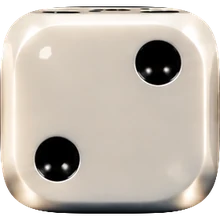
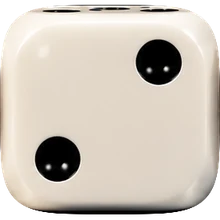
Yam's: new Classique dice artwork
Claude-Session: https://claude.ai/code/session_01H28i4nEd8tcnSnyPtjjJb7

diff --git a/yams.html b/yams.html
@@ -474,7 +474,7 @@ const SKINS = {
 };
 const SKIN_IDS = Object.keys(SKINS);
 // les dés « photo » : on précharge les 6 faces pour qu'elles s'affichent tout de suite
-SKIN_IDS.forEach(id => { if (SKINS[id].img) for (let v = 1; v <= 6; v++) { const im = new Image(); im.src = `img/dice/${SKINS[id].img}_${v}.webp?v=2`; } });
+SKIN_IDS.forEach(id => { if (SKINS[id].img) for (let v = 1; v <= 6; v++) { const im = new Image(); im.src = `img/dice/${SKINS[id].img}_${v}.webp?v=3`; } });
 // couleurs : face claire en haut, tranche plus sombre en dessous
 const shade = (hex, k) => { const n = parseInt(hex.slice(1), 16); const f = c => Math.max(0, Math.min(255, Math.round(c * k))); return '#' + [n >> 16 & 255, n >> 8 & 255, n & 255].map(f).map(v => v.toString(16).padStart(2, '0')).join(''); };
 const mix = (a, b, t) => { const A = parseInt(a.slice(1), 16), B = parseInt(b.slice(1), 16); return '#' + [16, 8, 0].map(sh => Math.round((A >> sh & 255) * (1 - t) + (B >> sh & 255) * t).toString(16).padStart(2, '0')).join(''); };
@@ -500,7 +500,7 @@ function pip(sk, x, y, big) {
 }
 function dieSVG(v, skinId) {
   const id = SKINS[skinId] ? skinId : 'classic', sk = SKINS[id];
-  if (sk.img) return `<svg viewBox="0 0 100 100" style="overflow:visible"><ellipse cx="50" cy="95" rx="38" ry="4.5" fill="rgba(0,0,0,.3)"/><image href="img/dice/${sk.img}_${v || 6}.webp?v=2" x="4" y="4" width="92" height="92"/><path class="hring" d="${DIE_PATH}" fill="none" stroke="#ffcf3f" stroke-width="5"/></svg>`;
+  if (sk.img) return `<svg viewBox="0 0 100 100" style="overflow:visible"><ellipse cx="50" cy="95" rx="38" ry="4.5" fill="rgba(0,0,0,.3)"/><image href="img/dice/${sk.img}_${v || 6}.webp?v=3" x="4" y="4" width="92" height="92"/><path class="hring" d="${DIE_PATH}" fill="none" stroke="#ffcf3f" stroke-width="5"/></svg>`;
   let extra = '';
   if (sk.grain) extra = '<path d="M14 30c20 4 50-4 72 2M12 58c24 5 52-3 76 3M16 80c18 3 46-2 68 1" stroke="rgba(90,50,20,.35)" stroke-width="2" fill="none"/>';
   if (sk.stars) extra = '<g fill="#fff" opacity=".75"><circle cx="20" cy="68" r="1.4"/><circle cx="82" cy="40" r="1.2"/><circle cx="60" cy="86" r="1.3"/><circle cx="38" cy="14" r="1.1"/><circle cx="84" cy="80" r="1"/></g>';
